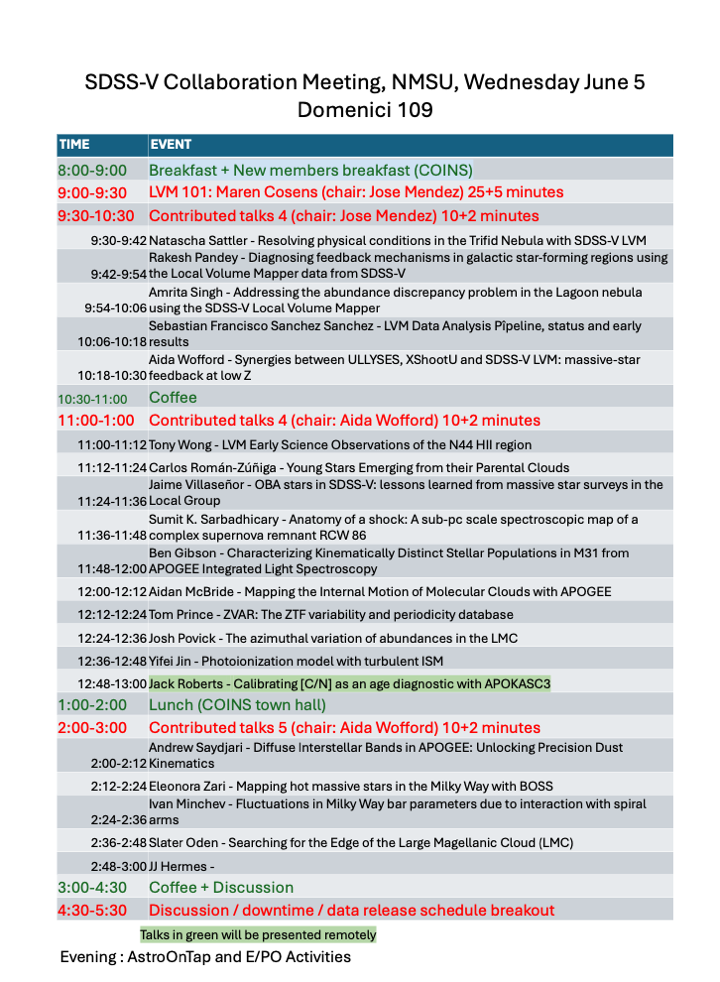
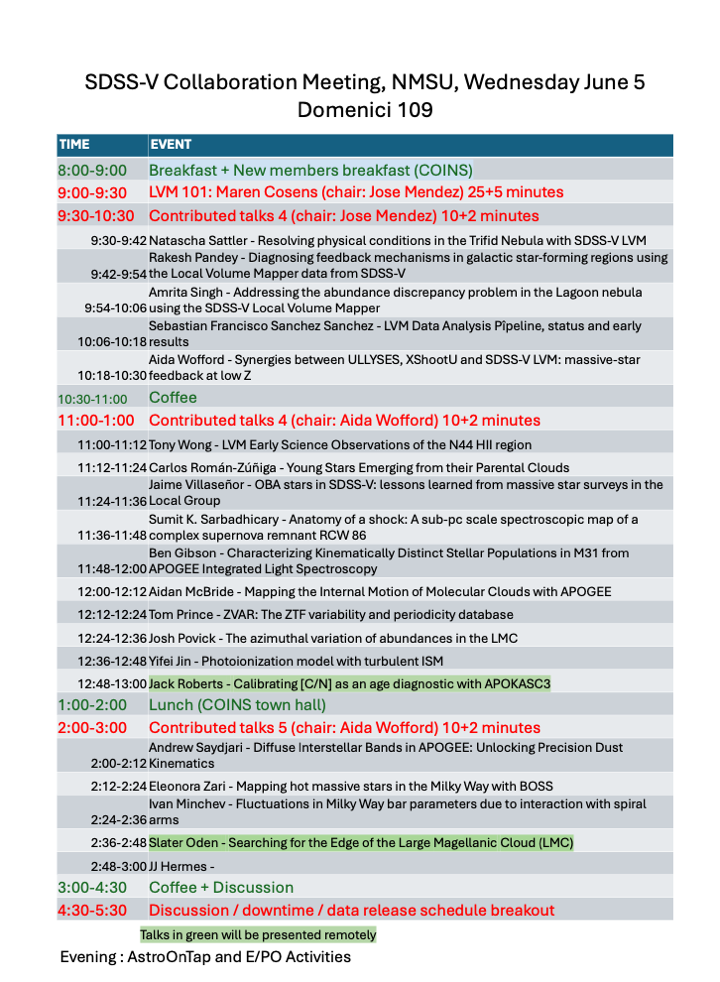
update some virtual attendees

Changed region(s): [[0.2139, 0.8248, 0.7944, 0.8859]]

diff --git a/attendees.md b/attendees.md
@@ -47,6 +47,7 @@ title : Attendees
 | Keith Hawkins | University of Texas at Austin |
 | *Viola Hegedus* | ELTE Gothard Astrophysical Observatory |
 | JJ Hermes | Boston University |
+| *Pranavi Hiremath*  | University of Edinburgh | 
 | Stephanie Ho | New Mexico State University |
 | David Hogg | Flatiron Institute  |
 | Priscilla Holguin Luna | New Mexico State University |
@@ -63,6 +64,7 @@ title : Attendees
 | Jennifer Johnson | Ohio State University |
 | James Johnson | The Observatories of the Carnegie Institution for Science |
 | Evelyn Johnston | Universidad Diego Portales |
+| *Amy Jones | STScI |
 | Ivan Katkov | New York University Abu Dhabi |
 | Juna Kollmeier | Carnegie Institution for Science/CITA |
 | *Kathryn Kreckel* | Heidelberg University |
@@ -90,7 +92,7 @@ title : Attendees
 | Ahmad Nemer | New York University |
 | *Qingling Ni* | MPE |
 | David Nidever | Montana State University |
-| Slater Oden | Montana State University |
+| *Slater Oden* | Montana State University |
 | Mary Ogborn | The Pennsylvania State University |
 | Jonah Otto | Texas Christian University |
 | Marc Pinsonneault | Ohio State University |
